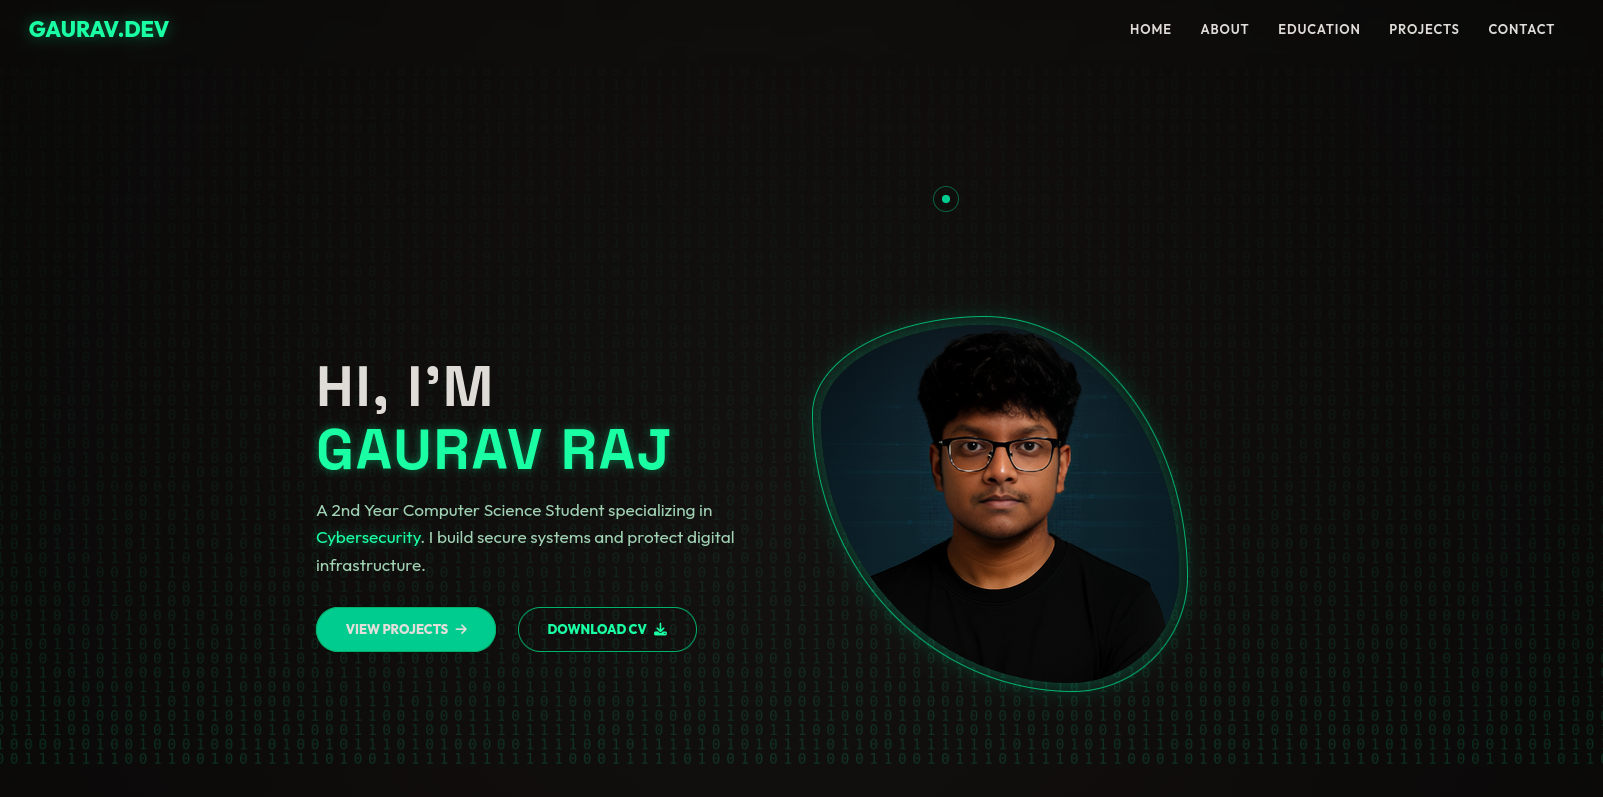
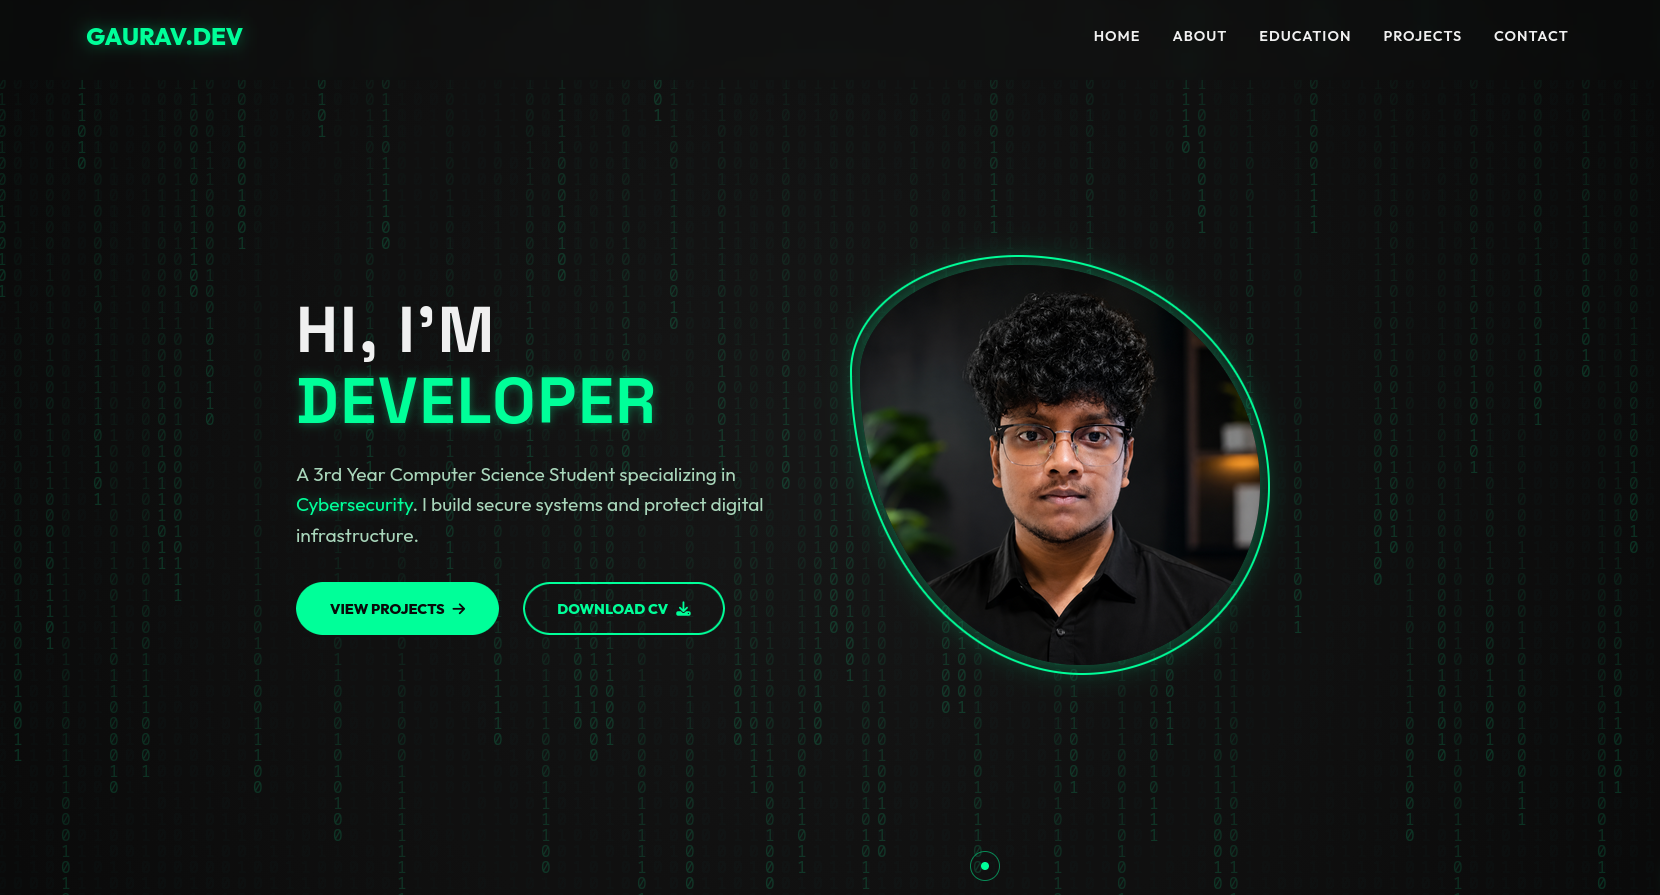
loading page improve

diff --git a/about.html b/about.html
@@ -14,7 +14,7 @@
         <div class="loader">
             <div class="loader-circle"></div>
         </div>
-        <div class="loader-text">ESTABLISHING SECURE CONNECTION...</div>
+        <div class="loader-text">LOADING...</div>
         <div class="loader-bar"></div>
     </div>
 

diff --git a/contact.html b/contact.html
@@ -14,7 +14,7 @@
         <div class="loader">
             <div class="loader-circle"></div>
         </div>
-        <div class="loader-text">ESTABLISHING SECURE CONNECTION...</div>
+        <div class="loader-text">LOADING...</div>
         <div class="loader-bar"></div>
     </div>
 

diff --git a/education.html b/education.html
@@ -15,7 +15,7 @@
         <div class="loader">
             <div class="loader-circle"></div>
         </div>
-        <div class="loader-text">ESTABLISHING SECURE CONNECTION...</div>
+        <div class="loader-text">LOADING...</div>
         <div class="loader-bar"></div>
     </div>
 

diff --git a/index.html b/index.html
@@ -16,7 +16,7 @@
         <div class="loader">
             <div class="loader-circle"></div>
         </div>
-        <div class="loader-text">ESTABLISHING SECURE CONNECTION...</div>
+        <div class="loader-text">LOADING...</div>
         <div class="loader-bar"></div>
     </div>
 

diff --git a/projects.html b/projects.html
@@ -14,7 +14,7 @@
         <div class="loader">
             <div class="loader-circle"></div>
         </div>
-        <div class="loader-text">ESTABLISHING SECURE CONNECTION...</div>
+        <div class="loader-text">LOADING...</div>
         <div class="loader-bar"></div>
     </div>
 
